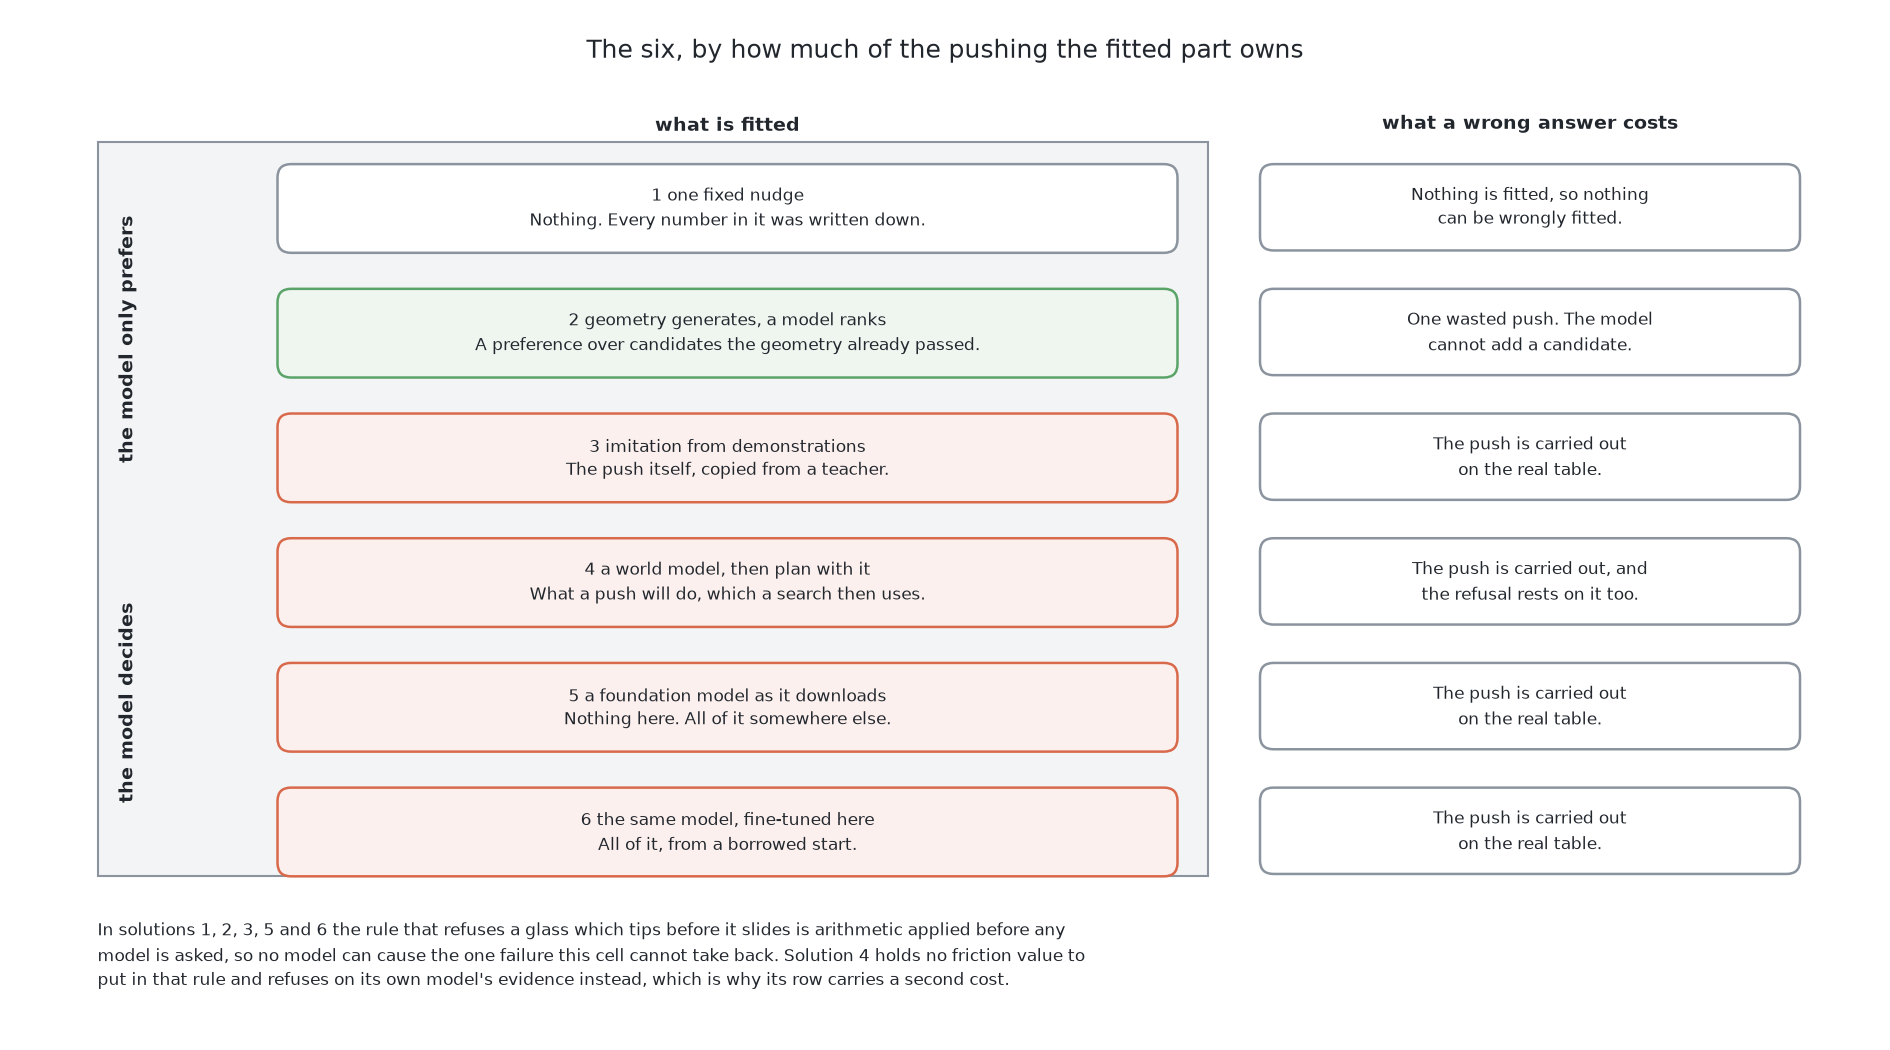
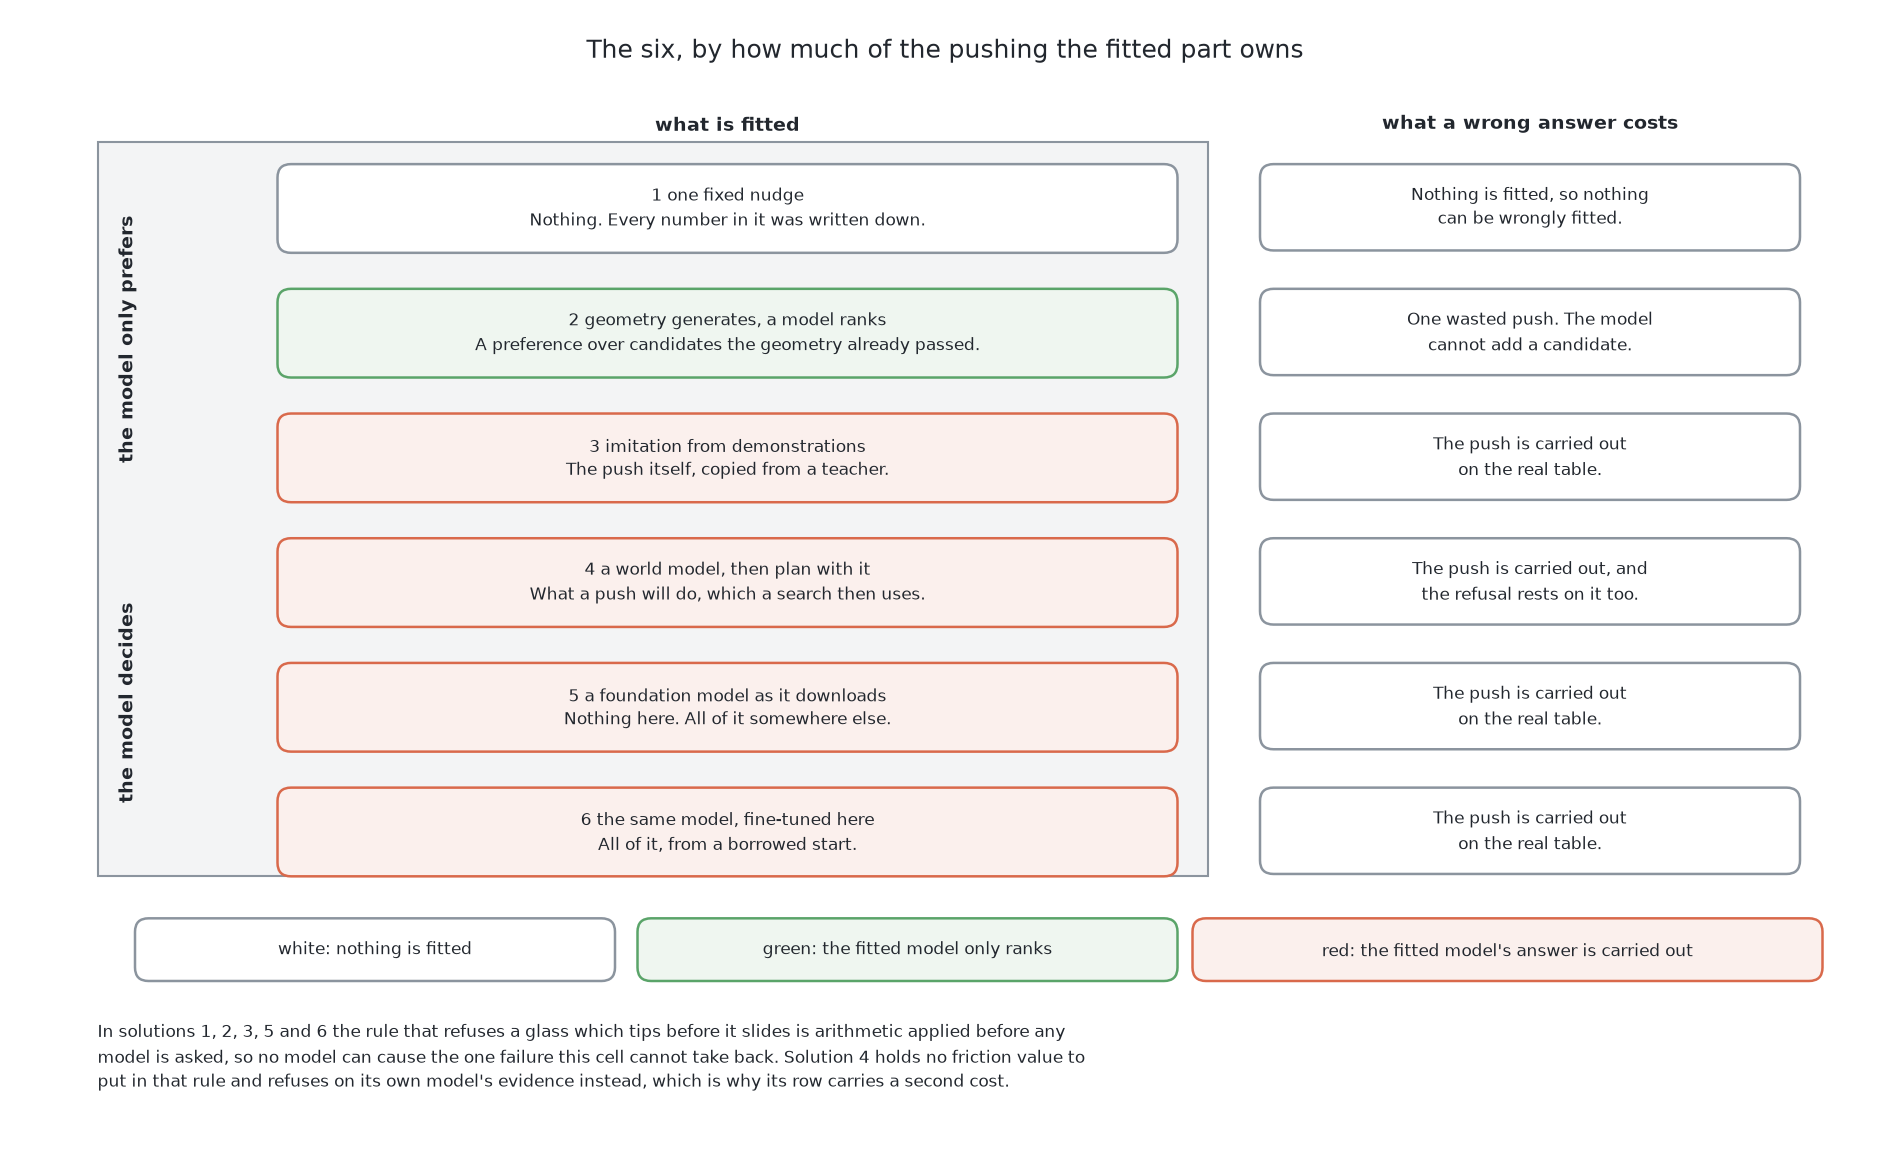
Explain the ladder's colours, say the scores are over 50 arrangements, and merge the results table into two columns
The colours of the ladder boxes were never explained, so the figure now carries a
key and the text says what white, green and red mean. The results section named
'tables' without saying that every solution is run on all 50 of them, so it now
speaks of arrangements, gives how many glasses each holds, and says that the first
number counts those that ended done. The results table now has a solution column
and one results column, numbers first and the explanation after.

diff --git a/docs/diagrams/pushing-the-glasses-apart/make_six_solutions_pages.py b/docs/diagrams/pushing-the-glasses-apart/make_six_solutions_pages.py
@@ -174,7 +174,7 @@ def where_the_learned_part_sits() -> None:
     wrong answer costs, and in five of the six the refusal that matters most
     is settled by arithmetic before the model is asked anything at all.
     """
-    width, height = 12.4, 6.8
+    width, height = 12.4, 7.5
     figure, axis = sheet(width, height)
     rung_x, rung_w = 4.75, 6.0
     cost_x, cost_w = 10.1, 3.6
@@ -222,6 +222,19 @@ def where_the_learned_part_sits() -> None:
     band_left = 0.55
     band(axis, band_left, y + 0.24, rung_w + 1.4, levels[0] - (y + 0.24) + 0.44,
          MUTED, "the model decides                    the model only prefers")
+
+    # The colours carry meaning, so the picture says what it is.
+    key_y = y - 0.04
+    for key_x, colour, words in [
+        (2.4, MUTED, "white: nothing is fitted"),
+        (5.95, GOOD, "green: the fitted model only ranks"),
+        (9.95, WARN, "red: the fitted model's answer is carried out"),
+    ]:
+        bottom = box(figure, axis, key_x, key_y, 3.2 if colour is MUTED else 3.6 if colour is GOOD else 4.2,
+                     words, edge=colour,
+                     face=PAPER if colour is MUTED else _tint(colour, 0.90),
+                     size=NOTE_SIZE - 0.4)
+    y = bottom - 0.22
 
     bottom = note(
         axis, band_left, y - 0.04,

diff --git a/docs/09_pushing-the-glasses-apart/03_the-six-solutions/01_how-the-six-compare.md b/docs/09_pushing-the-glasses-apart/03_the-six-solutions/01_how-the-six-compare.md
@@ -119,35 +119,58 @@ table, and nothing here measures that.
 
 ![The six set out as a ladder from a model that only prefers to a model that decides, with what a wrong answer costs beside each rung, and the one solution whose refusal rests on its own model rather than on arithmetic.](../../images/pushing-the-glasses-apart/how-the-six-compare/six-where-the-learned-part-sits.png)
 
-Reading that ladder downwards is reading from a model that only *prefers* to a
-model that *decides*, and the cost of a wrong answer grows as you go down it.
+Each box on the left is one solution, and its colour says what the fitted model
+does in that solution. A **white** box has no fitted model at all. A **green** box
+has a fitted model that only ranks pushes the written geometry has already
+approved, so it can choose badly among safe pushes and cannot add an unsafe one.
+A **red** box has a fitted model whose answer is the push, or the prediction the
+push is chosen from, so the arm carries out what the model produced. The grey label beside the boxes groups them: the top two are solutions where
+the model at most **prefers** one safe push over another, and the lower four are
+solutions where the model **decides** what the arm does.
+
+The boxes on the right say what one wrong answer costs in each solution. In the
+top two the cost is nothing or one wasted push, because the geometry never offers a
+bad push. In the lower four a wrong answer is a push made on the real table, and a
+glass can fall over. So reading the ladder downwards, a model gains more control
+and the cost of its mistakes grows with it.
 
 ## 5. What each one scored
 
-Every solution is given the same **50 tables holding 251 glasses, 203 of which
-have no room at the start**, spends the same budget of 4 pushes per glass and
-16 per table, and is judged by the same scorecard. A table is **done** when
-every glass on it could be picked up. A glass is **racked** when it was picked
-up and put away, and **toppled** when it ended the run lying down, which is the
-one failure this cell cannot take back.
+Every solution is run against the same **50 arrangements** of glasses on the
+table. Each arrangement is one iteration, and each holds 4, 5 or 6 glasses: 16 of
+them hold 4, 17 hold 5 and 17 hold 6. Across the 50 there are 251 glasses, and 203
+of those have no room for the gripper at the start. Every solution spends the same
+budget of 4 pushes per glass and 16 per arrangement, and is judged by the same
+scorecard.
+
+An arrangement is **done** when every glass in it could be picked up. A glass is
+**racked** when it was picked up and put away, and **toppled** when it ended the
+run lying down, which is the one failure this cell cannot take back. The first
+number in each row below is therefore not a count of arrangements attempted, which
+is 50 for every solution. It is how many of those 50 ended **done**, and that is
+the figure that differs between solutions.
 
 Solutions 3, 5 and 6 fit something and then draw their actions from it, so the
-examiner runs each of them three times. Their figures below are the middle run
-with the lowest and highest in brackets, and where those brackets overlap this
+examiner runs each of them three times over the same 50 arrangements. Their
+figures below are the middle run with the lowest and highest in brackets, and where those brackets overlap this
 test has not separated two solutions. Solutions 1, 2 and 4 are reported from a
 single run and carry no brackets: nothing in the first two is drawn at random
 at all, and solution 4's sampling search draws from a generator seeded by the
 table number, so its run repeats exactly. [The results](../10_the-results.md)
 has the full numbers with every column.
 
-| Solution | Tables done, of 50 | Glasses racked, of 251 | Glasses toppled | Why those results |
-|---|---|---|---|---|
-| **1. [One fixed nudge](02_one-fixed-nudge.md)** | 14 | 107 | **1** | The geometry refuses rather than guesses whenever the arithmetic is unsure, so it almost never breaks anything. What it gives up is the 143 glasses it refused rather than racked, and with this gripper most of those refusals are the cell's doing rather than the method's: there is nowhere to stand the hand, or no height at which the glass would slide. |
-| **2. [Geometry generates, a model ranks](03_geometry-generates-a-model-ranks.md)** | 14 | 107 | **1** | It reaches *exactly* the same tables and the same glasses as the printed rule it was meant to improve, for nine more pushes and half again the travel. The ordering could not help, because when a table bottoms out on the hand's own width and height there is only a very short list of legal pushes to order. |
-| **3. [Imitation from demonstrations](04_imitation-from-demonstrations.md)** | 2 (1–3) | 63 (51–64) | 12 (7–13) | It places the start of a push roughly right and gets the heading 22 to 27 degrees out, and the hand's own 266 mm of body then meets a neighbour on the way down. That is the policy averaging over teacher pushes that disagree, not a shortage of examples: four times the data removed the memorising and took about a fifth off the error. |
-| **4. [A world model, then plan with it](05_a-world-model-then-plan-with-it.md)** | **20** | **146** | 20 | It racks more glasses than anything else in the book and finishes the most tables, because a push aimed with a model of where the glass will stop rarely has to be tried again. It also topples 20 glasses, and the model had rated every one of those pushes safe. |
-| **5. [A foundation model as it downloads](06_a-foundation-model-as-it-downloads.md)** | 1 (0–1) | 48 (46–51) | 12 (10–14) | Its 48 racked glasses are exactly the 48 that already had room, so its pushes achieve nothing at all. The trajectories it returns hold the jaw about 200 mm above the table. It is not choosing badly among pushes; it is mostly not arriving at the table. That is the domain gap arriving exactly as predicted. |
-| **6. [The same model, fine-tuned here](07_the-same-model-fine-tuned-here.md)** | 1 (0–2) | 56 (50–65) | 40 (33–44) | The training brought the jaw down to the table without teaching it where to put the jaw down. About two of its pushes in three are blocked coming down, and the glasses that go over are what that costs. |
+The table below has one row for each solution. Read the left cell as the
+solution, and the right cell from the top: its three numbers come first, and the
+sentence after them says why it scored that way.
+
+| Solution | Results, then why |
+|---|---|
+| **1. [One fixed nudge](02_one-fixed-nudge.md)** | Arrangements done, of 50: 14<br>Glasses racked, of 251: 107<br>Glasses toppled: **1**<br>The geometry refuses rather than guesses whenever the arithmetic is unsure, so it almost never breaks anything. What it gives up is the 143 glasses it refused rather than racked, and with this gripper most of those refusals are the cell's doing rather than the method's: there is nowhere to stand the hand, or no height at which the glass would slide. |
+| **2. [Geometry generates, a model ranks](03_geometry-generates-a-model-ranks.md)** | Arrangements done, of 50: 14<br>Glasses racked, of 251: 107<br>Glasses toppled: **1**<br>It reaches *exactly* the same arrangements and the same glasses as the printed rule it was meant to improve, for nine more pushes and half again the travel. The ordering could not help, because when a table bottoms out on the hand's own width and height there is only a very short list of legal pushes to order. |
+| **3. [Imitation from demonstrations](04_imitation-from-demonstrations.md)** | Arrangements done, of 50: 2 (1–3)<br>Glasses racked, of 251: 63 (51–64)<br>Glasses toppled: 12 (7–13)<br>It places the start of a push roughly right and gets the heading 22 to 27 degrees out, and the hand's own 266 mm of body then meets a neighbour on the way down. That is the policy averaging over teacher pushes that disagree, not a shortage of examples: four times the data removed the memorising and took about a fifth off the error. |
+| **4. [A world model, then plan with it](05_a-world-model-then-plan-with-it.md)** | Arrangements done, of 50: **20**<br>Glasses racked, of 251: **146**<br>Glasses toppled: 20<br>It racks more glasses than anything else in the book and finishes the most arrangements, because a push aimed with a model of where the glass will stop rarely has to be tried again. It also topples 20 glasses, and the model had rated every one of those pushes safe. |
+| **5. [A foundation model as it downloads](06_a-foundation-model-as-it-downloads.md)** | Arrangements done, of 50: 1 (0–1)<br>Glasses racked, of 251: 48 (46–51)<br>Glasses toppled: 12 (10–14)<br>Its 48 racked glasses are exactly the 48 that already had room, so its pushes achieve nothing at all. The trajectories it returns hold the jaw about 200 mm above the table. It is not choosing badly among pushes; it is mostly not arriving at the table. That is the domain gap arriving exactly as predicted. |
+| **6. [The same model, fine-tuned here](07_the-same-model-fine-tuned-here.md)** | Arrangements done, of 50: 1 (0–2)<br>Glasses racked, of 251: 56 (50–65)<br>Glasses toppled: 40 (33–44)<br>The training brought the jaw down to the table without teaching it where to put the jaw down. About two of its pushes in three are blocked coming down, and the glasses that go over are what that costs. |
 
 ![Glasses racked against glasses toppled, one point for each of the six: solutions 1 and 2 share a single point in the bottom right because they reach the same glasses, the world model sits far to the right and well above them, and the three that produce the push themselves are poorer on both axes at once.](../../images/pushing-the-glasses-apart/how-the-six-compare/six-racked-against-toppled.png)
 
@@ -170,7 +193,7 @@ around it, and they fit models of different quantities. Solution 2 fits a model
 of *how much a push would help*, which the geometry already computes exactly
 from the destination. Solution 4 fits a model of *what a push will actually
 do*, which is the quantity the geometry gets wrong, because predicting where a
-pushed glass stops needs the friction nobody here has measured. The first reached exactly the same tables and the same
+pushed glass stops needs the friction nobody here has measured. The first reached exactly the same arrangements and the same
 glasses as the printed rule it was meant to beat; the second racked more
 glasses than anything else in the book. **The learning that paid attacked the quantity the geometry gets wrong,
 not the quantity it gets right.** So the useful question is not whether to
@@ -180,8 +203,8 @@ learn, but which quantity is worth learning.
 Same library, same model, same downloaded weights, same examiner, same input,
 same output and the same marking. The only difference is that one of them has
 had its training continued on this cell's own pushes. Both finish about one
-table in fifty, but the fine-tuned half topples 40 glasses a run where its
-partner topples 12, which puts 36 of its 50 tables in the "wrong" column
+arrangement in fifty, but the fine-tuned half topples 40 glasses a run where its
+partner topples 12, which puts 36 of its 50 arrangements in the "wrong" column
 against its partner's 9. **Fine-tuning bought enough competence to act and not
 enough to act safely**, and on a scorecard where a toppled glass cannot be
 undone that is worse than inaction. The fine-tuned model is also the one with
